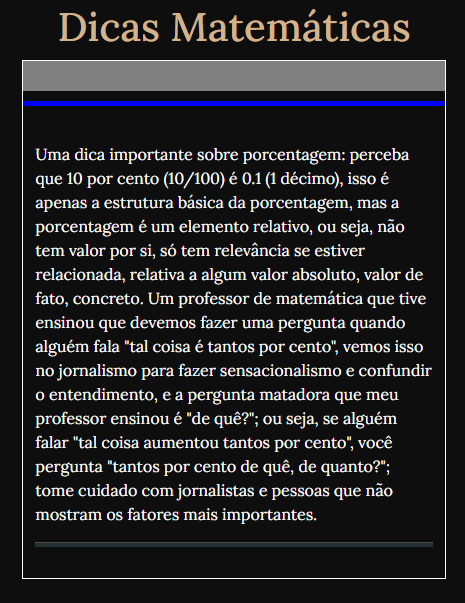
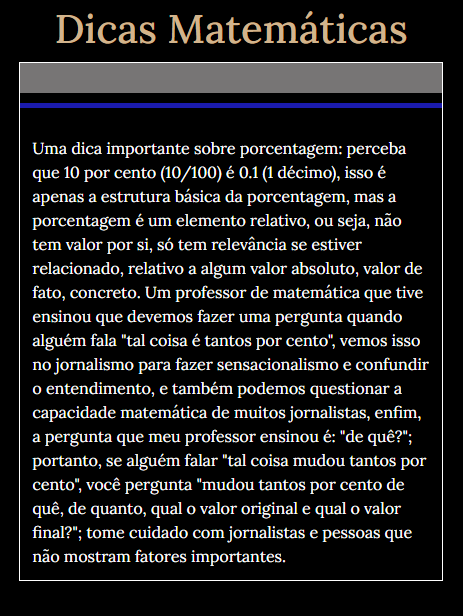
pushes up 55ºth

diff --git a/dicas.html b/dicas.html
@@ -24,58 +24,67 @@
                         <div id="dicas-conteiner">
                             <p>
                                 Para fazer potenciação, faça 2 ^ 2. E a potência de potência é (5 ^ 3) ^ 0, que é igual a 1, é diferente de 5 ^ 3 ^ 0, que é igual a 5.
-                                <br>
+                                <br><br>
                                 Para fazer radiciação, faça 25^(1/2) ou (25^(1/2)), isso é a raiz quadrada de 25, o resultado é 5. Perceba: se a raiz quadrada é 1/2, a raiz cúbica é 1/3, e assim sucessivamente. Existe relação entre a radiciação e a expoenenciação. Não esqueça dos parênteses no expoente, senão o resultado será outro.
-                                <br>
+                                <br><br>
                                 Use * para multiplicação. Use / para divisão.
                             </p>
                             <hr class="taghr" style="background-color: var(--color-blue2);">
                             <p>
                                 Para saber a porcantagem de algum valor, por exemplo, 20 por cento de 200, faça 0.2 (que é 20 por cento) vezes 200, o resultado é 40, ou seja, 40 é 20 por cento de 200.
-                                <br>
-                                Isso também quer dizer que 40 é 200% vezes maior que 20, lembre-se que 100% é igual a 1 (100/100), por isso 20% é 0.2 (20/100), sendo assim, 200% é 2, portanto, 40 é 2 vezes maior que 20.
                             </p>
                             <hr class="taghr" style="background-color: var(--color-blue2);">
                             <p>
-                                Outro caso: 90 corresponde a 30 por cento de quanto? Para calcular, faça 90 dividido por 0.3 (que é 30 por cento), o resultado é 300, isso quer dizer que 90 é 30 por cento de 300.
-                                <br>
-                                Seguindo a lógica acima, 90 é 300% maior que 30, ou seja, 90 é 3 vezes maior que 30, porém, 300 não é 3 vezes maior que 90, para saber quantas vezes 300 é maior que 90, faça 300 dividido por 90, o resultado é 3.333...
+                                Outro caso: 90 corresponde a 30 por cento de quanto? Para calcular, faça 90 dividido por 0.3 (que é 30%), o resultado é 300, logo, 90 é 30% de 300.
                             </p>
                             <hr class="taghr" style="background-color: var(--color-blue2);">
                             <p>
-                                Mais um caso: 90 corresponde a quantos por cento dentro de 360? Para calcular, faça 90 dividido por 360, o resultado é 0.25, portanto, 90 é 25 por cento de 360.
-                                <br>
-                                Isso também quer dizer que 90 é 360% vezes maior que 25, ou seja, se multiplicar 25 por 300% (25 vezes 3), o resultado é 75, depois precisa incluir 50% de 25 (a metade de 25, que é 12.5), o resultado é 87.5, e por fim, incluir 10% de 25 (que é 2.5), o resultado final é 90, portanto, 90 é 3.6 (360%) vezes maior que 25 (ou seja, 25 vezes 3.6 é igual a 90 e 90 dividido por 25 é 3.6). <br>
-                                Além disso, 360 é 400% maior que 90, então basta fazer 90 vezes 4, ademais, já que 90 é um quarto (1/4)(25%) de 360, lembrando que 100% é 1, se refere ao valor total, nesse caso, 360, então faz 360 dividido por 4, que é igual a 90.
+                                Mais um caso: 90 corresponde a quantos por cento dentro de 360? Para calcular, faça 90 dividido por 360, o resultado é 0.25, depois multiplique por 100, porque é porcentagem, portanto, 90 é 25% de 360.
+                                <br><br>
+                                Perceba que 25% é 1 quarto (1/4), sendo assim, 90 vezes 4 é 360, e 360 dividido por 4 é 90.
+                                <br><br>
+                                Olha que interessante: 90 é 360% (3,6) vezes maior que 25. Vamos repartir 360% em 300% + 50% + 10%. Comece multiplicando 25 por 300% (25 vezes 3), o resultado é 75. Depois multiplique 25 por 50%, que é 12.5, a metade de 25, então adicione a 75, será 87.5. Por fim, multiplique 25 por 10%, que é 2.5, um décimo de 25. O resultado final é 90, ou seja, 25 vezes 3.6 é 90, e 90 dividido por 3.6 é 25.
                             </p>
                             <hr class="taghr" style="background-color: var(--color-blue2);">
                             <p>
-                                Para saber qual valor corresponde a 10% dentro de 500, faça 500 vezes 0.1 (10%), o resultado é 50. Ou faça o contrário: 500 vezes 0.9 (90%), o resultado é 450, depois faça 500 menos 450.
+                                Para saber qual valor corresponde a 10% dentro de 500, faça 500 vezes 0.1 (10%), o resultado é 50, ou faça 500 dividido por 10.
+                                <br><br>
+                                Ou faça o contrário: 500 vezes 0.9 (90%), o resultado é 450, depois faça 500 menos 450.
                             </p>
                             <hr class="taghr" style="background-color: var(--color-blue2);">
                             <p>
-                                Para saber o desconto ou o aumento de algo, faça o seguinte: se o caso for desconto de 20% de 150, faça 150 vezes 0.8, o resultado é 120, está descontando 0.2, reduzindo 0.2, então ficará 0.8, lembre que 100% é 1, corresponde ao valor total, portanto, 1 menos 0.2 é 0.8. Outra forma é fazer 150 vezes 0.2, o resultado é 30, então subtrai 30 de 150, fica 120. Se alguém falar "com 20% de desconto, fica 120", a pessoa não falou o valor original, para saber, faça 120 dividido por 0.8, o resultado é 150, o original é 150, repare que 120 é 80% (0.8) do original, porque descontou 20% (0.2). E se alguém falar "de 150 vai para 120", a pessoa não falou a porcentagem que descontou, para saber, faça 120 dividido por 150, o resultado é 0.8, isso quer dizer que 120 é 0.8 de 150, então descontou 0.2 de 150.
-                                <br>
-                                Se for aumento de 20% de 150, faça 150 vezes 1.2, o resultado é 180, ou seja, 150 mais 20%, por isso é 1.2. Outra forma é fazer 150 vezes 0.2, o resultado é 30, então soma 30 em 150. Se alguém falar "com 20% de aumento, fica 180", não falou o valor original, então faça 180 dividido por 1.2, o resultado é 150, lembrando que 1 corresponde ao original e 1.2 é 20% acima do original. E se falar "vai aumentar de 150 para 180", não falou a porcentagem que aumentou, então faça 180 dividido por 150, o resultado é 1.2, ou seja, é 1 mais 0.2, 1 corresponde a 150 e 2 é 20%.
+                                Para saber o desconto de algo, faça o seguinte: desconto de 20% de 150, faça 150 vezes 0.8, o resultado é 120, perceba que 0.8 é 80%, ou seja, 100% menos o desconto de 20%. Você também pode fazer 150 vezes 0.2, o resultado é 30, depois subtraia 30 de 150, o resultado é 120.
+                                <br><br>
+                                Outra situação de desconto. Se alguém falar "com 20% de desconto, fica 120", a pessoa não falou o valor original, para saber, faça 120 dividido por 0.8, o resultado é 150, o original é 150, repare que 120 é 80% (0.8) do original, porque descontou 20% (0.2).
+                                <br><br>
+                                Outra situação. Se alguém falar "de 150 vai para 120", a pessoa não falou a porcentagem que descontou, para saber, faça 120 dividido por 150, o resultado é 0.8, isso quer dizer que 120 é 0.8 de 150, então descontou 0.2 de 150.
+                                <br><br>
+                                Para saber o aumento de algo, faça o seguinte: aumento de 20% de 150, faça 150 vezes 1.2, o resultado é 180, perceba que é 1 mais 0.2, por isso é 1.2, lembre-se que 1 é 100%, o valor total, original, logo, 150 mais 20%. Outra forma de fazer isso é 150 vezes 0.2, o resultado é 30, então soma 30 em 150.
+                                <br><br>
+                                Outra situação. Se alguém falar "com 20% de aumento, fica 180", não falou o valor original, então faça 180 dividido por 1.2, o resultado é 150, portanto, aumentar 20% em 150, fica 180.
+                                <br><br>
+                                Outra situação. Se falar "vai aumentar de 150 para 180", não falou a porcentagem que aumentou, então faça 180 dividido por 150, o resultado é 1.2, ou seja, aumentou 20%.
                             </p>
                             <hr class="taghr" style="background-color: var(--color-blue2);">
                             <p>
-                                Uma dica importante sobre porcentagem: perceba que 10 por cento (10/100) é 0.1 (1 décimo), isso é apenas a estrutura básica da porcentagem, mas a porcentagem é um elemento relativo, ou seja, não tem valor por si, só tem relevância se estiver relacionada, relativa a algum valor absoluto, valor de fato, concreto. Um professor de matemática que tive ensinou que devemos fazer uma pergunta quando alguém fala "tal coisa é tantos por cento", vemos isso no jornalismo para fazer sensacionalismo e confundir o entendimento, e a pergunta matadora que meu professor ensinou é "de quê?"; ou seja, se alguém falar "tal coisa aumentou tantos por cento", você pergunta "tantos por cento de quê, de quanto?"; tome cuidado com jornalistas e pessoas que não mostram os fatores mais importantes.
+                                Uma dica importante sobre porcentagem: perceba que 10 por cento (10/100) é 0.1 (1 décimo), isso é apenas a estrutura básica da porcentagem, mas a porcentagem é um elemento relativo, ou seja, não tem valor por si, só tem relevância se estiver relacionado, relativo a algum valor absoluto, valor de fato, concreto. Um professor de matemática que tive ensinou que devemos fazer uma pergunta quando alguém fala "tal coisa é tantos por cento", vemos isso no jornalismo para fazer sensacionalismo e confundir o entendimento, e também podemos questionar a capacidade matemática de muitos jornalistas, enfim, a pergunta que meu professor ensinou é: "de quê?"; portanto, se alguém falar "tal coisa mudou tantos por cento", você pergunta "mudou tantos por cento de quê, de quanto, qual o valor original e qual o valor final?"; tome cuidado com jornalistas e pessoas que não mostram fatores importantes.
                             </p>
                             <hr class="taghr" style="background-color: var(--color-blue2);">
                             <p>
                                 Se a página atualizar por algum motivo ou se você atualizar, mesmo sem querer, o que estava no visor será perdido, porque a página vai para o estado original, mas o histórico continuará salvo.
-                                <br>
+                                <br><br>
                                 A página com as Dicas abre em outra aba para não perder o que foi digitado no visor, se abrisse na mesma aba, iria perder quando voltasse para a calculadora.
                             </p>
                             <hr class="taghr" style="background-color: var(--color-blue2);">
                             <p>
-                                O botão Focar no Visor serve para você poder usar o teclado do celular para digitar no visor, isso é bom quando a conta não cabe no visor, como na imagem abaixo.
+                                Se a conta for muito grande, como na imagem abaixo, você pode clicar no visor e usar as setas do computador ou deslizar para os lados no touchpad ou trackpad ou no celular, além disso, também pode usar os quatro botões de movimentação que estão logo abaixo do visor.
+                                <br><br>
+                                Se você adivinhar qual o contexto da conta da imagem abaixo, você é gênio!
                             </p>
                             <hr class="taghr" style="background-color: var(--color-blue2);">
                             <img
                                 src="./assets/captura_de_tela.png"
-                                alt="Exemplo de uso do botão Focar no Visor, como explicado acima"
+                                alt="Tela de exemplo conforme a explicação de cima, veja no site calculadoracomdicas.vercel.app"
                             >
                             <hr class="taghr" style="background-color: var(--color-blue2);">
                         </div>

diff --git a/script.js b/script.js
@@ -37,9 +37,6 @@ function calculate() {
 }
 document.addEventListener('keydown',function(e){if(e.key==='Enter'){calculate()}});
 $('.tab').on('click',()=>{$('.tab').blur()});
-function removeLastInput() {
-    display.value = display.value.slice(0, -1)
-}
 function resetDisplay() {
     display.value = ""
 }
@@ -62,12 +59,12 @@ function showContas()
     list.innerHTML = ""
     for(let i = 0; i < contas.length; i++)
     {
-        list.innerHTML += `<tr scope="row">
+        list.innerHTML += `<tr scope="row" tabindex="-1">
             <td id='resultado' onclick="addDisplay('${contas[i]['conta']}')" tabindex="-1">
-                <span id='calculum'>${contas[i]['conta']}</span>
+                <span tabindex="0" id='calculum'>${contas[i]['conta']}</span>
             </td>
             <td id='botao_trash' tabindex="-1">
-                <button tabindex="-1" id='btn-trash' onclick='removeConta("${contas[i]['conta']}")'>
+                <button tabindex="0" id='btn-trash' onclick='removeConta("${contas[i]['conta']}")'>
                     <svg xmlns="http://www.w3.org/2000/svg" width="22" height="22" fill="currentColor" viewBox="0 0 16 16">
                         <path d="M5.5 5.5A.5.5 0 0 1 6 6v6a.5.5 0 0 1-1 0V6a.5.5 0 0 1 .5-.5m2.5 0a.5.5 0 0 1 .5.5v6a.5.5 0 0 1-1 0V6a.5.5 0 0 1 .5-.5m3 .5a.5.5 0 0 0-1 0v6a.5.5 0 0 0 1 0z"/>
                         <path d="M14.5 3a1 1 0 0 1-1 1H13v9a2 2 0 0 1-2 2H5a2 2 0 0 1-2-2V4h-.5a1 1 0 0 1-1-1V2a1 1 0 0 1 1-1H6a1 1 0 0 1 1-1h2a1 1 0 0 1 1 1h3.5a1 1 0 0 1 1 1zM4.118 4 4 4.059V13a1 1 0 0 0 1 1h6a1 1 0 0 0 1-1V4.059L11.882 4zM2.5 3h11V2h-11z"/>
@@ -77,6 +74,38 @@ function showContas()
         </tr>
         <hr class="taghr" style="opacity:0 !important">`;
     }
+
+    const calculumEls = list.querySelectorAll('#calculum');
+    calculumEls.forEach(el => {
+        el.tabIndex = 0;
+        el.addEventListener('keydown', function(e) {
+            const isSpace = e.key === ' ' || e.code === 'Space' || e.key === 'Spacebar' || e.keyCode === 32;
+            if (isSpace) {
+                e.preventDefault();
+                display.value = el.textContent.trim();
+            } else if (e.key === 'Enter') {
+                e.preventDefault();
+                e.stopPropagation();
+            }
+        });
+        el.addEventListener('click', () => { display.value = el.textContent.trim(); });
+    });
+
+    const trashBtns = list.querySelectorAll('#btn-trash');
+    trashBtns.forEach(btn => {
+        btn.tabIndex = 0;
+        btn.addEventListener('keydown', function(e) {
+            const isSpace = e.key === ' ' || e.code === 'Space' || e.key === 'Spacebar' || e.keyCode === 32;
+            if (isSpace) {
+                e.preventDefault();
+                btn.click();
+            } else if (e.key === 'Enter') {
+                e.preventDefault();
+                e.stopPropagation();
+            }
+        });
+    });
+
 }
 function addDisplay(resultado) {
     display.value = resultado
@@ -123,5 +152,3 @@ function botaoBackspace(){
     }
     display.focus();
 }
-document.getElementById('botaoFoco').addEventListener('click', () => { document.getElementById('display').focus() })
-/**/document.getElementById('botaoDesfoco').addEventListener('click', () => { document.getElementById('display').blur() })//

diff --git a/index.html b/index.html
@@ -24,8 +24,10 @@
                             <a id="botao-dicas" class="col tab" href="dicas.html" target="_blank" rel="noreferrer noopener" tabindex="-1">Dicas Matemáticas</a>
                         </div>
                         <div class="row">
-                            <input id="botaoFoco" class="col tab" type="button" value="Focar no Visor" tabindex="-1">
-                            <input id="botaoDesfoco" class="col tab" type="button" value="Tirar foco do Visor" tabindex="-1">
+                            <input id="botaoHome" class="col tab" type="button" value="Começo" tabindex="-1">
+                            <input id="botaoLeft" class="col tab" type="button" value="&lt;" onclick="setaEsquerda()" tabindex="-1">
+                            <input id="botaoRight" class="col tab" type="button" value=">" onclick="setaDireita()" tabindex="-1">
+                            <input id="botaoEnd" class="col tab" type="button" value="Fim" tabindex="-1">
                         </div>
                         <div class="row">
                             <input class="col tab" type="button" value="+" onclick="addInputToDisplay(' + ')" tabindex="-1">
@@ -65,22 +67,15 @@
                             <input class="col tab" type="button" value="=" onclick="calculate()" tabindex="-1">
                         </div>
                         <div class="row">
+                            <input class="col tab" type="button" value="Apagar Tudo" onclick="resetDisplay()" tabindex="-1">
                             <input class="col tab back" type="button" value="BackSpace" onclick="botaoBackspace()" tabindex="-1">
-                            <input class="col tab" type="button" value="Apagar" onclick="resetDisplay()" tabindex="-1">
-                            <input class="col tab last" type="button" value="Limpar Último" onclick="removeLastInput()" tabindex="-1">
                         </div>
-                        <div class="row">
-                            <input id="botaoHome" class="col tab" type="button" value="Começo" tabindex="-1">
-                            <input id="botaoLeft" class="col tab" type="button" value="&lt;" onclick="setaEsquerda()" tabindex="-1">
-                            <input id="botaoRight" class="col tab" type="button" value=">" onclick="setaDireita()" tabindex="-1">
-                            <input id="botaoEnd" class="col tab" type="button" value="Fim" tabindex="-1">
-                        </div>
-                        <div id="store" class="row">
+                        <div id="store" class="row" tabindex="-1">
                             <h3 id="history">Histórico</h3>
                         </div>
                         <br>
                         <div id="tabela" class="row" tabindex="-1">
-                            <table id="storage" class="table"></table>
+                            <table id="storage" class="table" tabindex="-1"></table>
                         </div>
                     </div>
                 </div>

diff --git a/style.css b/style.css
@@ -129,31 +129,6 @@ h1 {
     margin-left: 5px; margin-right: 2px; }
 }
 
-@media screen and (max-width:470px) {
-    .last {
-        padding-left: 2px;
-        padding-right: 2px;
-    }
-}
-@media screen and ( max-width: 410px ) {
-    .back {
-        padding-left: 18px;
-        padding-right: 18px;
-    }
-}
-@media screen and ( max-width: 391px ) {
-    .back {
-        padding-left: 21px;
-        padding-right: 21px;
-    }
-}
-@media screen and ( max-width: 380px ) {
-    .back {
-        padding-left: 22px;
-        padding-right: 22px;
-    }
-}
-
 #botao-dicas {
     text-decoration: none;
     color: var(--color-dark);

diff --git a/README.md b/README.md
@@ -14,12 +14,12 @@ https://codepen.io/jrSamuel-Jr/pen/zYgwJmJ
 
 https://jsfiddle.net/j_r_Samuel_Jr/zk2s798f/10/
 <br><br>
-Aqui tem dicas matemáticas:<br>
+Aqui as dicas:<br>
 https://codepen.io/jrSamuel-Jr/pen/ExqXPaw
 
-https://jsfiddle.net/j_r_Samuel_Jr/zc6farkm/42/
+https://jsfiddle.net/j_r_Samuel_Jr/zc6farkm/44/
 
 #
-![tela inicial da calculadora com histórico](./assets/captura__print-(1).png)
-![tela com as dicas matemáticas](./assets/captura__print-(2).png)
+![tela inicial da calculadora](./assets/captura__print-(1).png)
+![tela com as dicas](./assets/captura__print-(2).png)
 #
